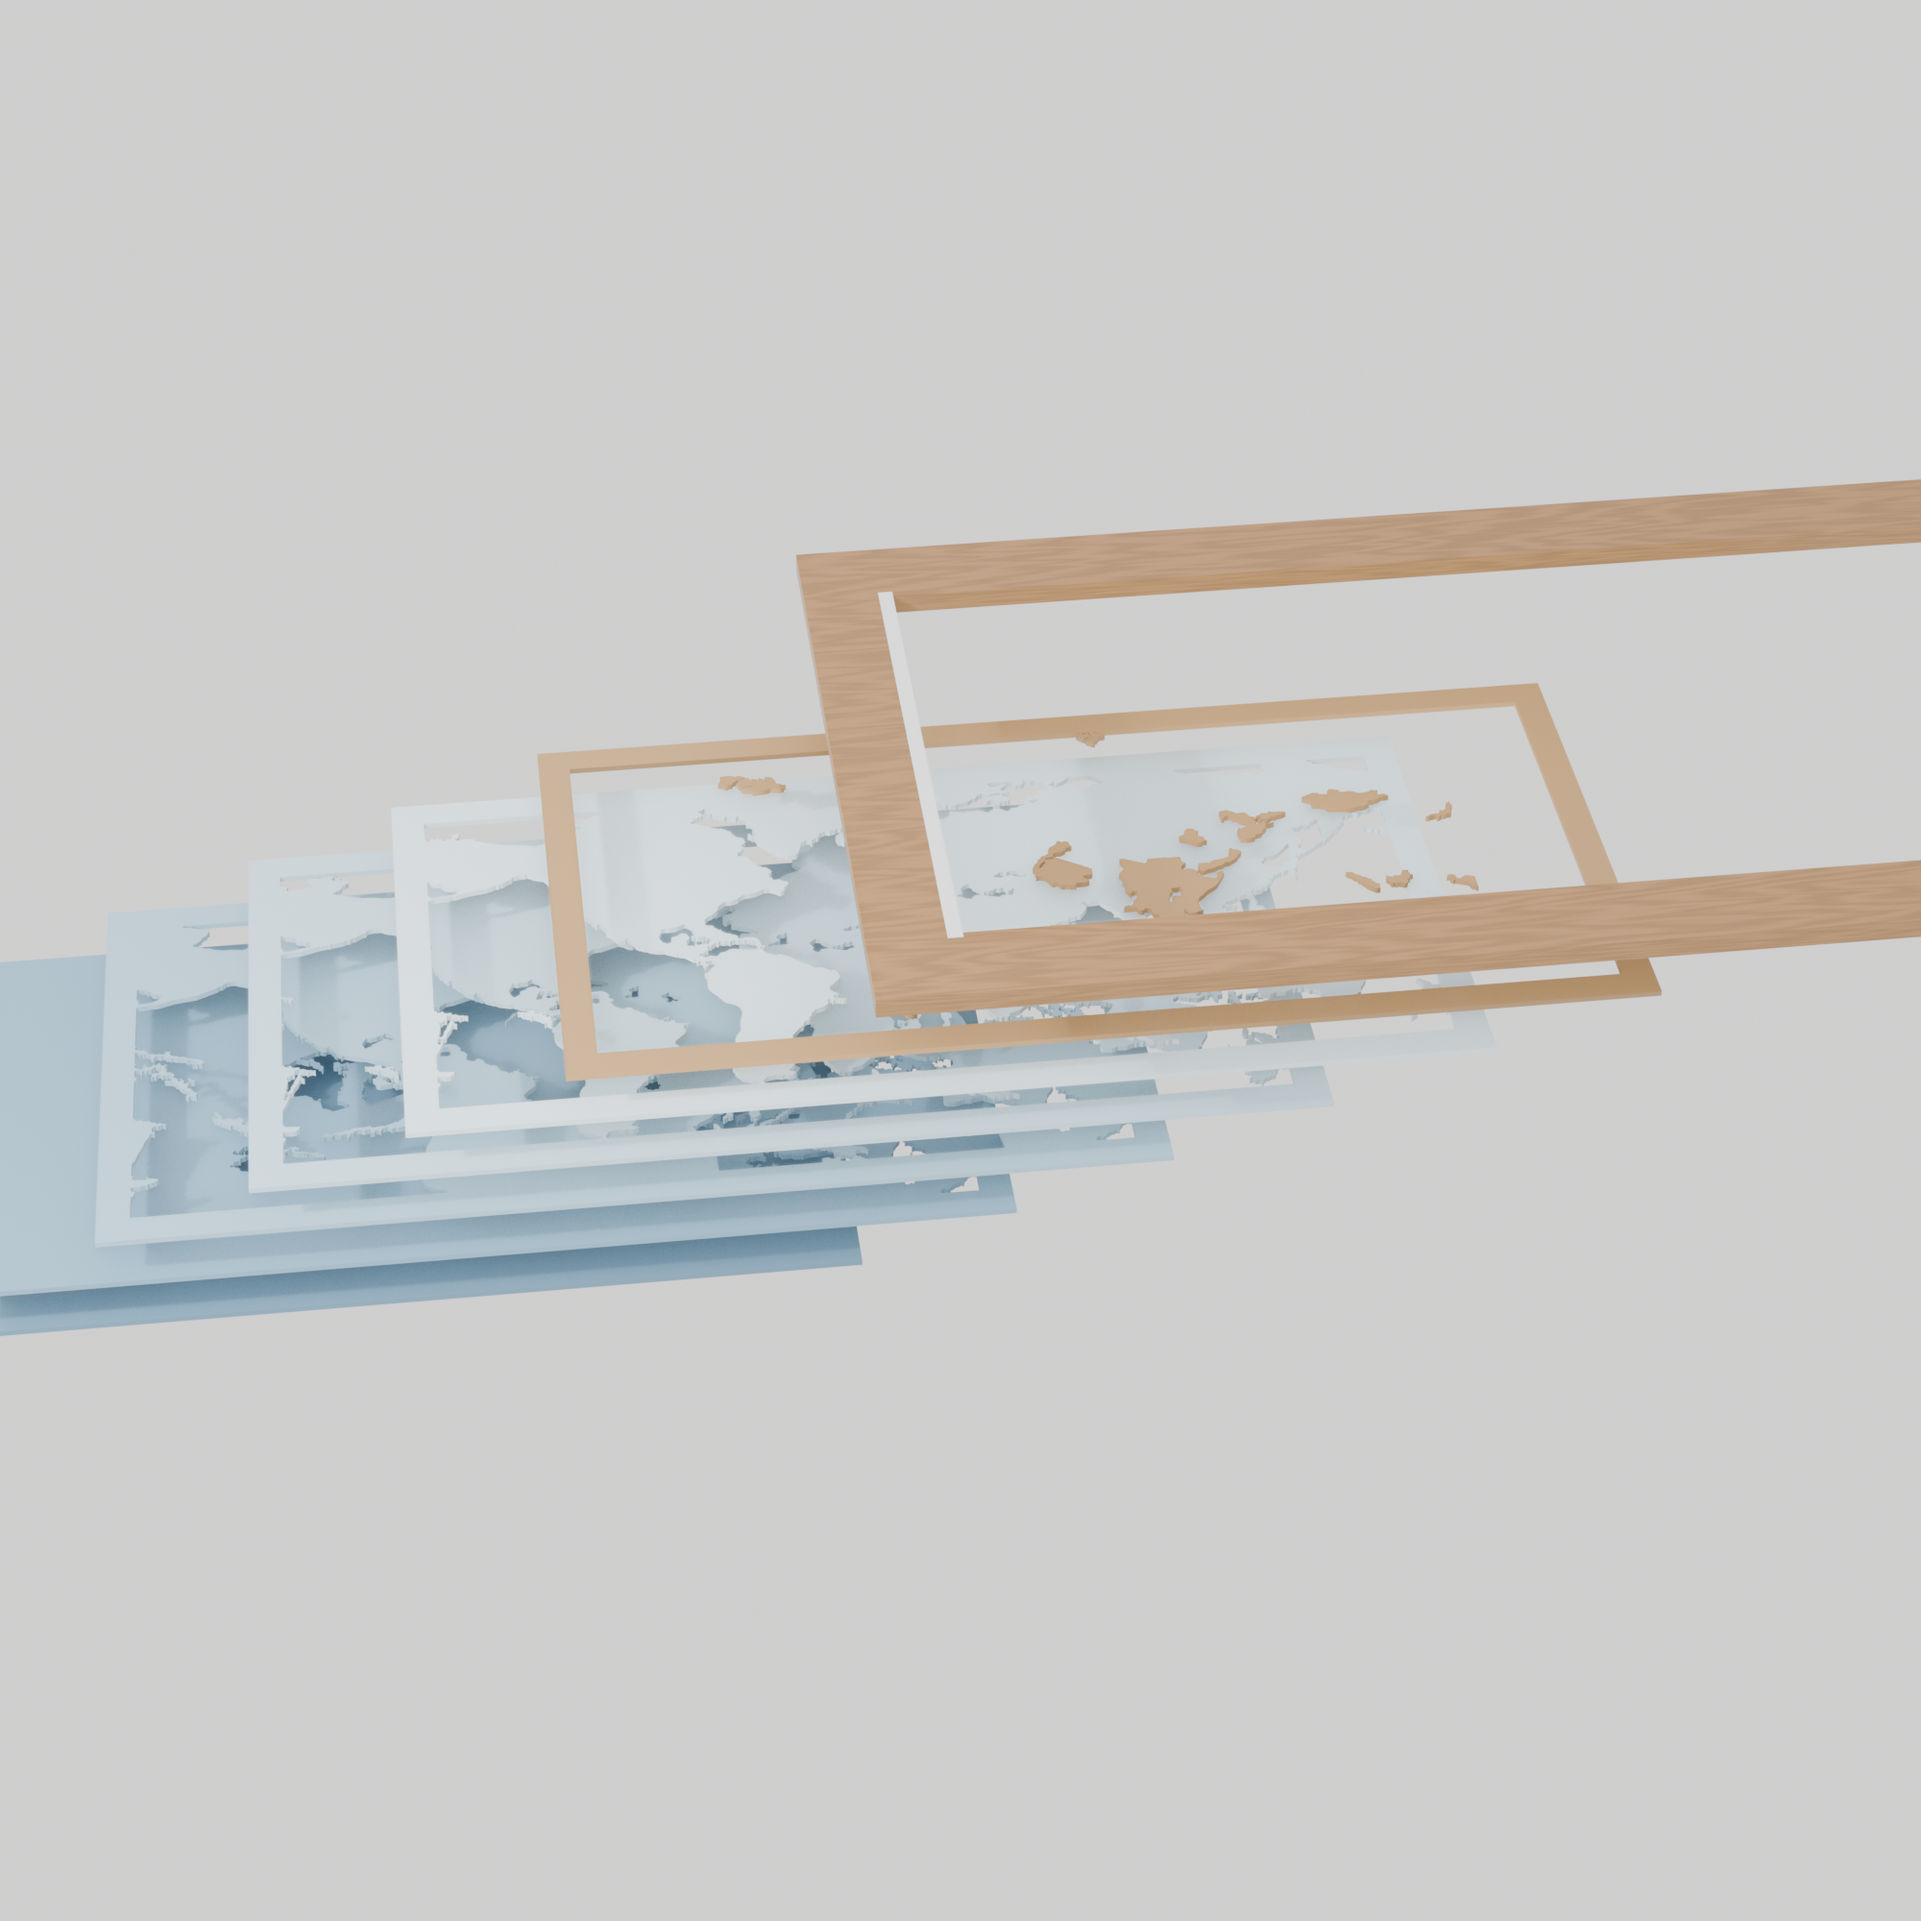
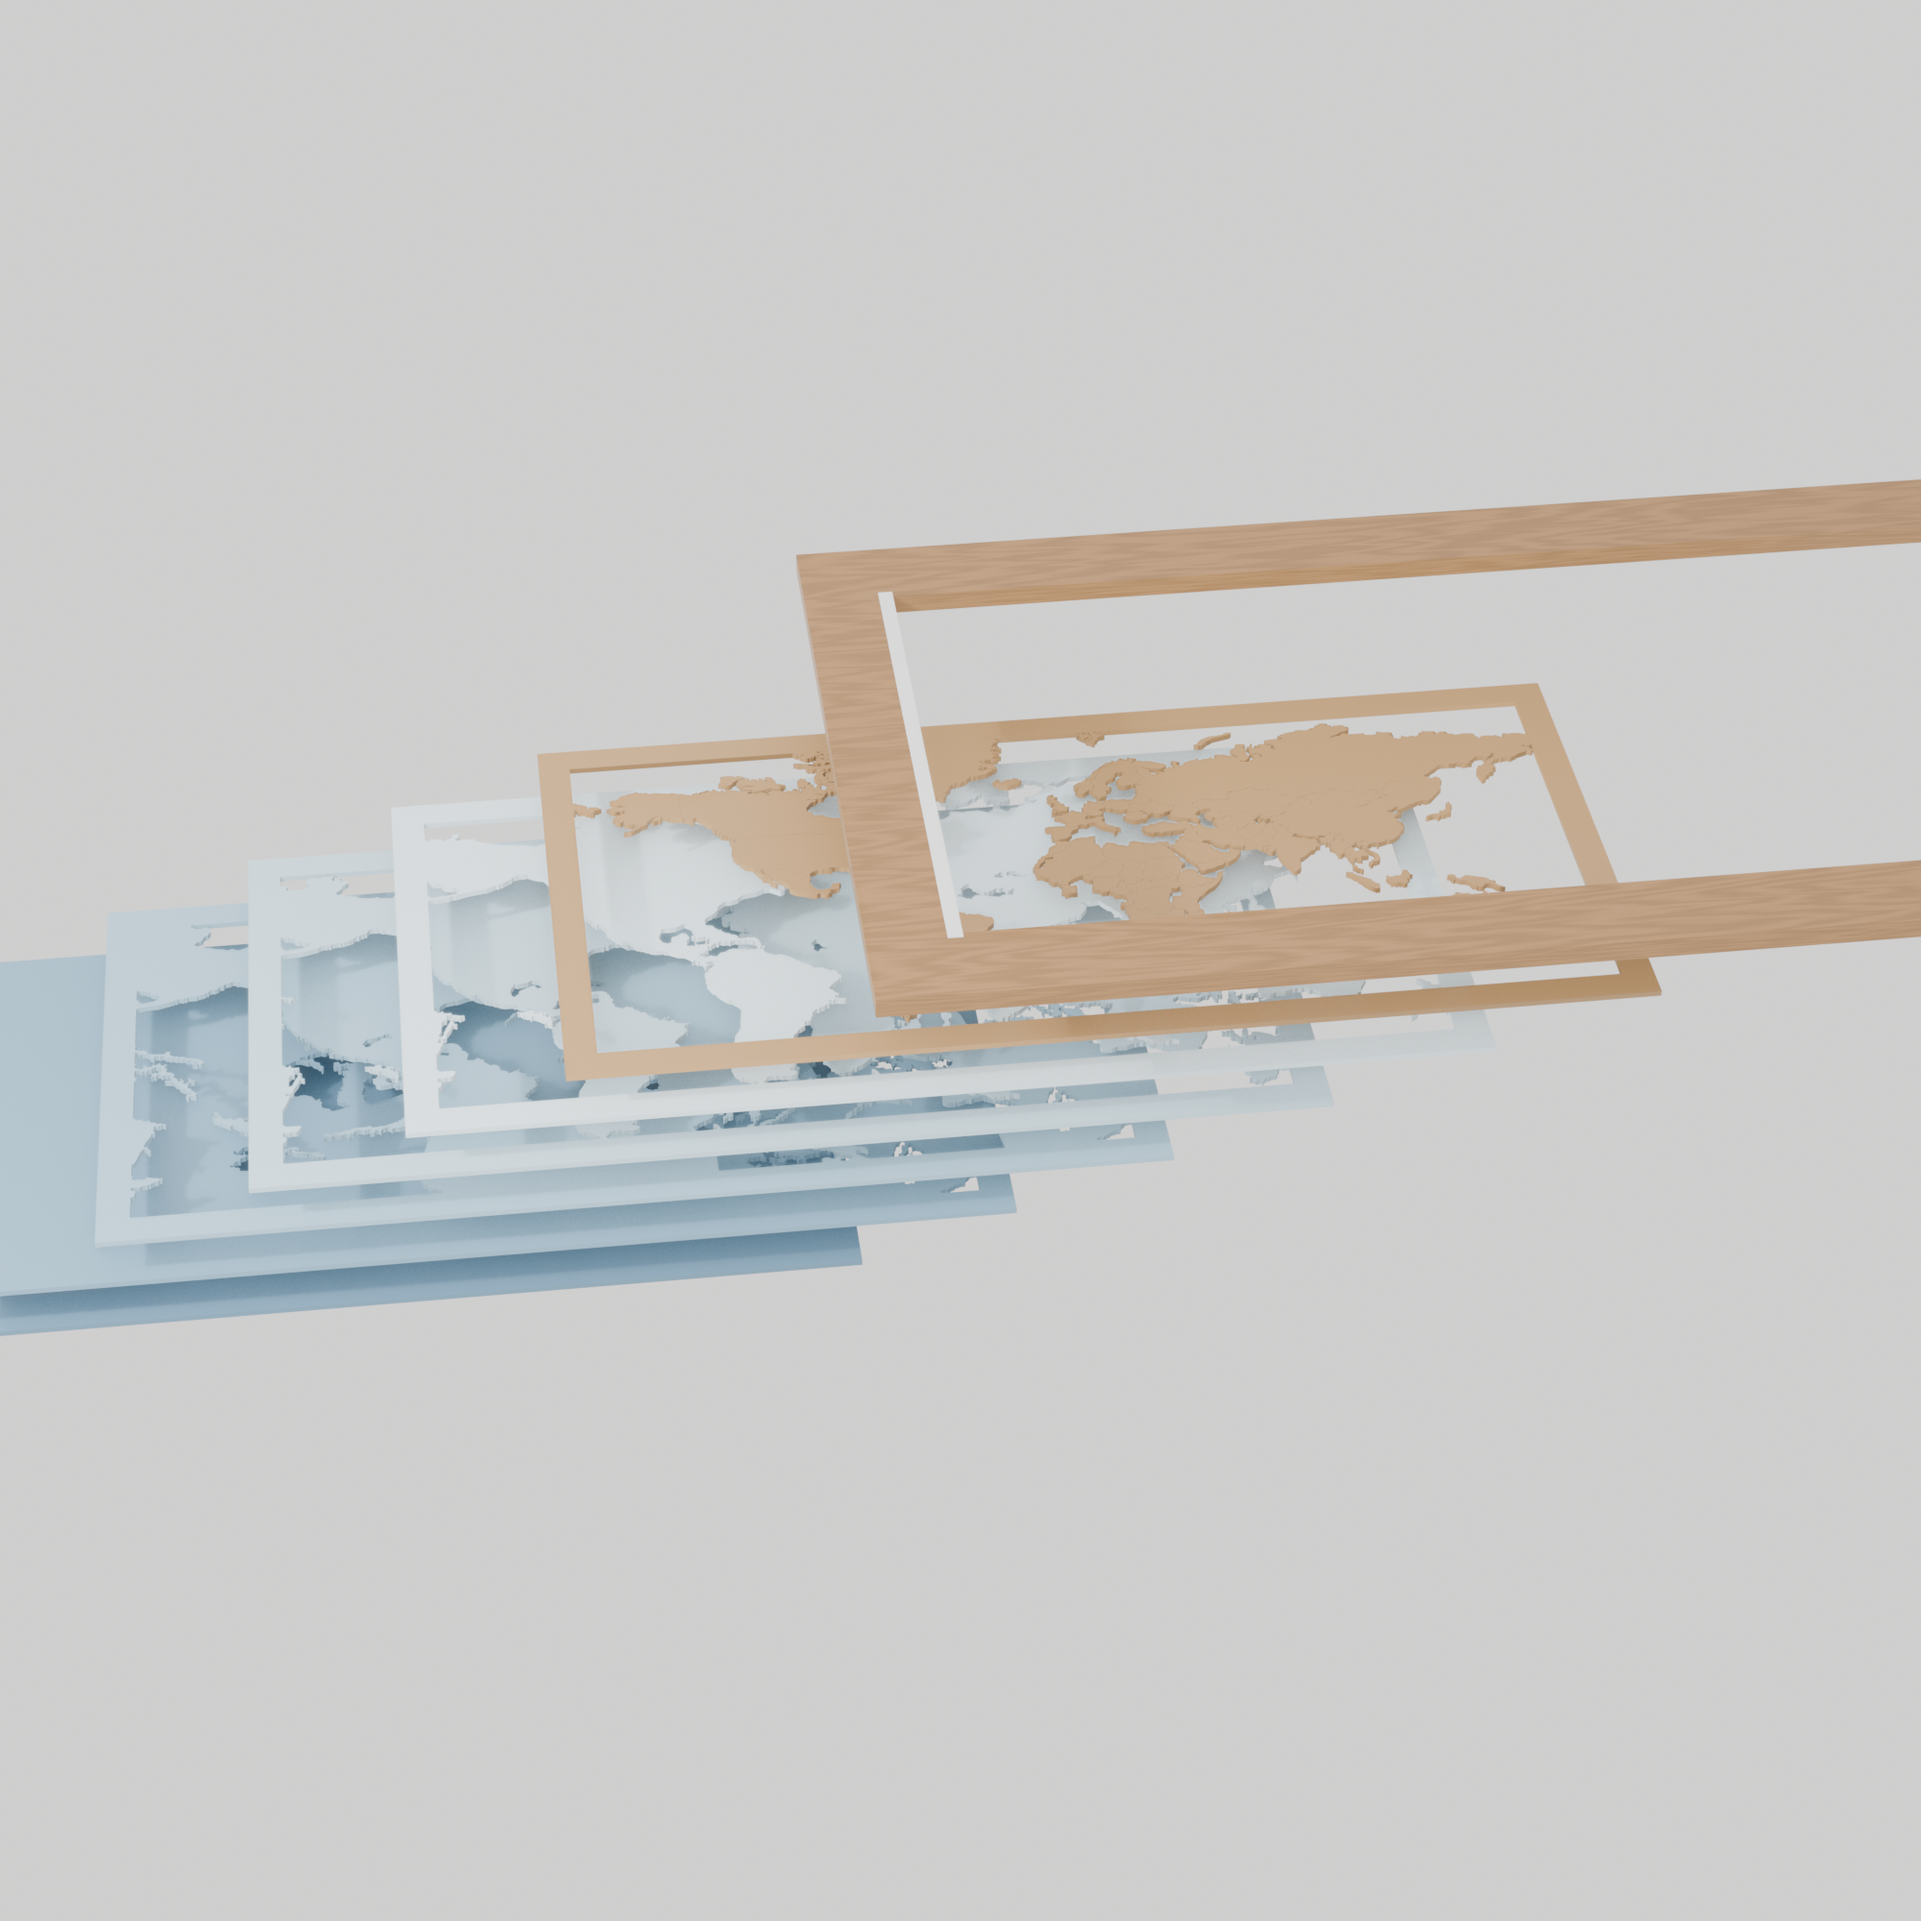
Vilagterkep 3. kor: szabadon allo orszagdarabok, tobb nev, kutatas-alapu gyartasi elemek
USER-KORREKCIO: a keret-eloszor szabaly ERRE a termekre nem ervenyes - a
referencian az orszagdarabok szabadon allnak, az alattuk levo lapra
ragasztva, nem a keretig ernek. A szarazfold-lap nem kap keretsavot es nem
kap simplify-t sem (a darabok kozos vonalmube vagtak, az utolagos simplify
ujra szetcsusztatna oket). Cserebe kell hatar es nev: label-h 2,2 mm-re, a
kuszob engedekenyebbre.

KUTATAS (assembly research) beepitve:
- nyak-szelesites lokalisan, Epilog-modszer (offset+unio CSAK a nyak-zonan),
  a codex sorrend-talalataval egyutt: a klippeles UTAN fut, ujraklippelessel,
  mert a klippeles uj nyakat gyart (merve: 200 m lap 0 -> 1 nyak)
- ghost-outline gravir a fogado lapra: minden darab konturja 0,5 mm-rel
  beljebb, ragasztas utan nem latszik - a lap maga a sablon (erosebb, mint a
  referencia sarok-stencilje). A codex talalata szerint a VEGSO kiirt
  geometriabol epul, nem a nyers 167 darabbol, es ures esetre vedve.

REVIEWER (100-as skala, elozo korhoz kepest):
  plate 50 -> 60 (+10), exploded 35 -> 52 (+17)
Fo nyitott hibak: feher lapel-szilank a keret oldalan (plate+exploded),
exploded keret levagva a kep szelein, tul kemeny kontakt-arnyek a partok
menten, plate alulzoomolva.

Changed region(s): [[0.465, 0.372, 0.806, 0.465], [0.31, 0.372, 0.465, 0.496], [0.496, 0.465, 0.527, 0.496]]

diff --git a/product/pipeline/10_worldmap.py b/product/pipeline/10_worldmap.py
@@ -130,6 +130,24 @@ def widest_inscribed(p):
     return lo
 
 
+def widen_necks(geom, add=0.45):
+    """Lokalis kiszelesites CSAK a nyak-szakaszon (Epilog-ajanlas: offset ~0,5 mm
+    es unio - de mi nem az egesz format hizlaljuk, csak a nyak-zonat, igy a
+    kontur karaktere marad). A nyak-zona: a darab minusz a kover reszek."""
+    out = []
+    for p in polys(geom):
+        er = p.buffer(-MIN_WEB / 2)
+        frags = [f for f in polys(er) if f.area >= 5.0]
+        if len(frags) <= 1:
+            out.append(p)
+            continue
+        fat = unary_union([f.buffer(MIN_WEB / 2 + 0.05) for f in frags])
+        neck_zone = p.difference(fat)
+        widened = p.union(neck_zone.buffer(add)).buffer(0)
+        out.append(widened)
+    return unary_union(out)
+
+
 def necks(geom):
     """Vékony nyak: ahol MIN_WEB/2-vel erodálva a darab több érdemi részre esik."""
     n = 0
@@ -201,7 +219,7 @@ def main():
     ap.add_argument("--borders", action="store_true", help="országhatár gravírozási réteg")
     ap.add_argument("--countries", action="store_true",
                     help="a szárazföld lap ország-darabokra bontva, gravírozott nevekkel")
-    ap.add_argument("--label-h", type=float, default=2.6,
+    ap.add_argument("--label-h", type=float, default=2.2,
                     help="mm — gravírozott betűmagasság; ez dönti el, hány ország címkézhető")
     a = ap.parse_args()
 
@@ -288,7 +306,7 @@ def main():
             if big is None:
                 continue
             r = widest_inscribed(big) / 2
-            if name and r >= a.label_h * 0.9 and big.area >= 350:
+            if name and r >= a.label_h * 0.72 and big.area >= 150:
                 c = _plabel(big, tolerance=0.5)
                 labels.append((name.upper(), c.x, c.y, min(a.label_h, r * 0.9)))
         print(f"[i] orszag-darabok (polygonize, fok-terben): {len(pieces)}, cimkezheto: {len(labels)}")
@@ -309,9 +327,17 @@ def main():
     # az 1000 m-esé, tehát a k. lap NEM fért bele a k-1.-be. Ha ezt nem javítjuk,
     # a fizikai stackben az egyik lap kilóg a másik alól. Ugyanaz a lépés, mint a
     # papírvágás-láncban: minden lapot a mögötte lévőre klippelünk.
-    fixed = [sheets[0]]
+    fixed = [(sheets[0][0], set_precision(make_valid(sheets[0][1]), 0.01))]
     for name, g in sheets[1:]:
+        # snap mindket oldalra: a 167 darabos orszag-lap hajszal-elei GEOS
+        # side-location-conflictot adtak a klippelesnel
+        g = set_precision(make_valid(g), 0.01)
         clipped = g.intersection(fixed[-1][1])
+        if not (a.countries and name == "szárazföld"):
+            # a codex merte ki: a klippeles UJ nyakat gyart (200 m: 0 -> 1),
+            # ezert a szelesites a klippeles UTAN fut, majd meg egy klippeles
+            clipped = widen_necks(clipped)
+            clipped = set_precision(make_valid(clipped), 0.01).intersection(fixed[-1][1])
         if clipped.area < g.area * 0.999:
             print(f"[i] {name}: beágyazásra klippelve "
                   f"({(1 - clipped.area / g.area) * 100:.1f}% lógott ki)")
@@ -319,15 +345,22 @@ def main():
     sheets = fixed
 
     rows = []
+    final_land = None
     for i, (name, g) in enumerate(sheets, 1):
-        g = set_precision(make_valid(g), 0.001).simplify(a.simplify)
+        is_pieces = (a.countries and name == "szárazföld")
+        g = set_precision(make_valid(g), 0.001)
+        if not is_pieces:
+            g = g.simplify(a.simplify)
         if a.thicken > 0 and not (a.countries and name == "szárazföld"):
             # zárás: a nyak összeforr, a forma mérete lényegében marad.
             # Az orszag-darabos lapra TILOS: a zaras a szomszedos orszagokat
             # a kozos hatar menten osszehegeszti, es megint egy tomb lenne.
             g = g.buffer(a.thicken).buffer(-a.thicken * 0.72)
-        # a keretsáv minden lapon anyag: ez tartja össze a szigeteket is
-        g = g.union(panel.difference(box(a.margin, a.margin, a.width - a.margin, H - a.margin)))
+        if not is_pieces:
+            # a keretsáv a TENGER-lapokon anyag: egyben tartja a lapot. Az
+            # orszag-darabok lapjára NEM kerül: a referencián a darabok
+            # szabadon állnak, az alattuk lévő lapra ragasztva.
+            g = g.union(panel.difference(box(a.margin, a.margin, a.width - a.margin, H - a.margin)))
         g, dropped = drop_specks(g, a.min_island)
         if g is None:
             print(f"[!] {i}. lap ({name}) üres")
@@ -341,6 +374,8 @@ def main():
         rows.append((i, name, len(parts), sum(len(p.interiors) for p in parts),
                      g.area, frail, nk, dropped))
         tag = name.replace(" ", "")
+        if is_pieces:
+            final_land = g
         to_svg(g, a.width, H, out / f"layer_{i}_of_{len(sheets)}.svg")
         to_dxf(g, H, out / f"layer_{i}_of_{len(sheets)}_{tag}.dxf")
 
@@ -422,6 +457,27 @@ def main():
         dxf += ["0", "ENDSEC", "0", "EOF"]
         (out / "engrave_labels.dxf").write_text("\n".join(dxf))
         print(f"[i] gravírozott nevek: {len(labels)} ország + címtábla + iránytű")
+
+    if a.countries and final_land is not None:
+        # GHOST-OUTLINE: minden orszagdarab konturja 0,5 mm-rel BELJEBB
+        # offsetelve, halvany gravirkent a fogado (legfelso tenger-) lapra -
+        # ragasztas utan nem latszik ki, de a vevo pontosan tudja, hova
+        # kerul a darab. A referencia sarok-stenciljenel erosebb: itt maga a
+        # lap a sablon.
+        ghosts = []
+        for pc in polys(final_land):
+            gi = pc.buffer(-0.5)
+            if not gi.is_empty:
+                for q in polys(gi):
+                    ghosts.append(q.boundary)
+        if not ghosts:
+            print("[!] ghost-outline: nincs eleg nagy darab, kihagyva")
+        else:
+            gl = unary_union(ghosts).simplify(a.simplify)
+            to_svg(gl, a.width, H, out / "engrave_ghost.svg", stroke_only=True)
+            to_dxf(gl, H, out / "engrave_ghost.dxf")
+            print(f"[i] ghost-outline gravir: {len(ghosts)} darab-kontur "
+                  f"({gl.length:.0f} mm) - a 200 m-es lapra megy")
 
     print(f"\nkész tábla: {a.width:.0f} x {H:.0f} mm\n")
     print(f"{'lap':>4}{'mélység':>12}{'darab':>7}{'lyuk':>6}{'terület mm2':>13}"
